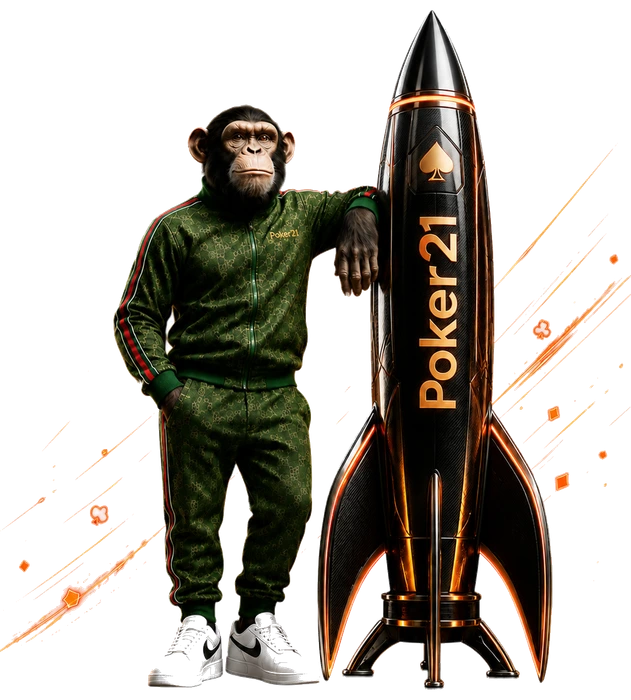
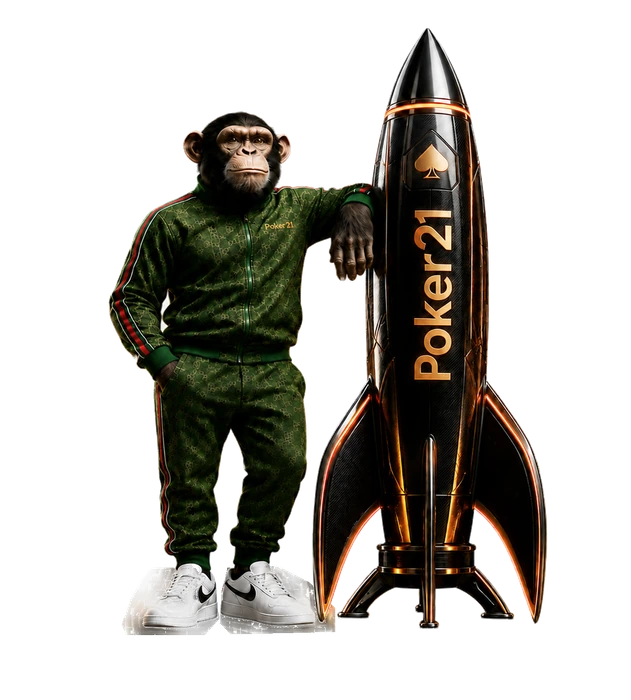
Update summer rating Pokermanki asset

diff --git a/index.html b/index.html
@@ -1,5 +1,5 @@
 <!DOCTYPE html>
-<html lang="ru" data-theme="gold" class="app-view-home app-view-home-html-scroll" data-build="v88" data-app-version="3.555">
+<html lang="ru" data-theme="gold" class="app-view-home app-view-home-html-scroll" data-build="v88" data-app-version="3.556">
   <head>
     <!-- До app.js/styles: класс iOS PWA — иначе таббар первые кадры без bottom-фикса и остаётся чёрная полоса снизу -->
     <script>
@@ -299,7 +299,7 @@
     <link rel="preload" as="image" href="./assets/home-tournament-sunday-knockout-week-300k.webp" fetchpriority="low" />
     <link rel="preload" as="image" href="./assets/home-freeroll-bg-daily.webp" fetchpriority="low" />
     <link rel="preload" as="image" href="./assets/home-freeroll-bg-saturday.webp" fetchpriority="low" />
-    <link rel="stylesheet" href="./styles.css?v=3.569" />
+    <link rel="stylesheet" href="./styles.css?v=3.570" />
     <link rel="stylesheet" href="./styles-home-achievements.css?v=3.541" />
     <!-- Главная: скролл как в остальных разделах — прокручивается вся страница -->
     <style id="home-layout-critical">

diff --git a/styles-rating-late.css b/styles-rating-late.css
@@ -2738,8 +2738,8 @@ body[data-view="summer-rating"] .winter-rating.spring-rating .winter-rating__tit
   overflow: visible;
   background:
     url("./assets/summer-rating-player-waaar.webp") 50% 26% / 31% auto no-repeat,
-    url("./assets/summer-rating-player-pokermanki.webp") 11% 35% / 40% auto no-repeat,
-    url("./assets/summer-rating-player-cooler.webp") 89% 56% / 24% auto no-repeat;
+    url("./assets/summer-rating-player-pokermanki.webp") 11% 44% / 42% auto no-repeat,
+    url("./assets/summer-rating-player-cooler.webp") 89% 50% / 24% auto no-repeat;
 }
 
 .winter-rating.spring-rating.summer-rating .spring-rating-top3__card {

diff --git a/styles.css b/styles.css
@@ -11,7 +11,7 @@
 @import url("./styles-download.css?v=3.524");
 @import url("./styles-home-legacy-tail.css?v=3.524");
 @import url("./styles-home-rating-promo-legacy.css?v=3.524");
-@import url("./styles-rating.css?v=3.549");
+@import url("./styles-rating.css?v=3.550");
 @import url("./styles-hall.css?v=3.542");
 @import url("./styles-admin.css?v=3.524");
 @import url("./styles-player-crm.css?v=3.524");

diff --git a/styles-rating-tables-modals.css b/styles-rating-tables-modals.css
@@ -1,4 +1,4 @@
 /* styles-rating-tables-modals.css entrypoint. Keep imports in this order: the legacy cascade depends on it. */
 @import url("./styles-rating-tables.css?v=3.281");
 @import url("./styles-rating-modals.css?v=3.120");
-@import url("./styles-rating-late.css?v=3.567");
+@import url("./styles-rating-late.css?v=3.568");

diff --git a/styles-rating.css b/styles-rating.css
@@ -1,3 +1,3 @@
 /* Rating CSS entrypoint. Keep imports in this order: the legacy cascade depends on it. */
-@import url("./styles-rating-tables-modals.css?v=3.305");
+@import url("./styles-rating-tables-modals.css?v=3.306");
 @import url("./styles-rating-chat-modals.css");
